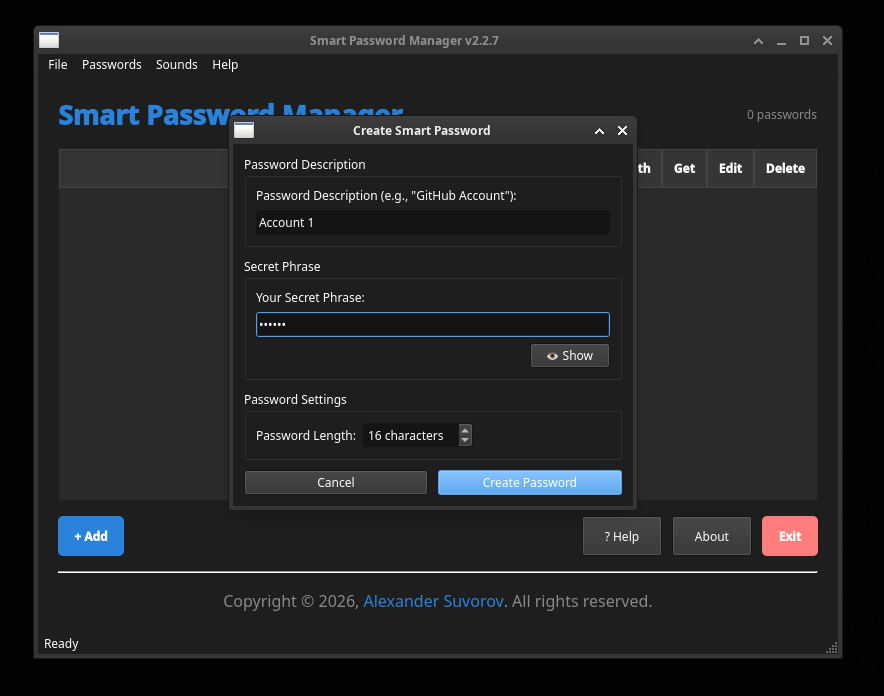
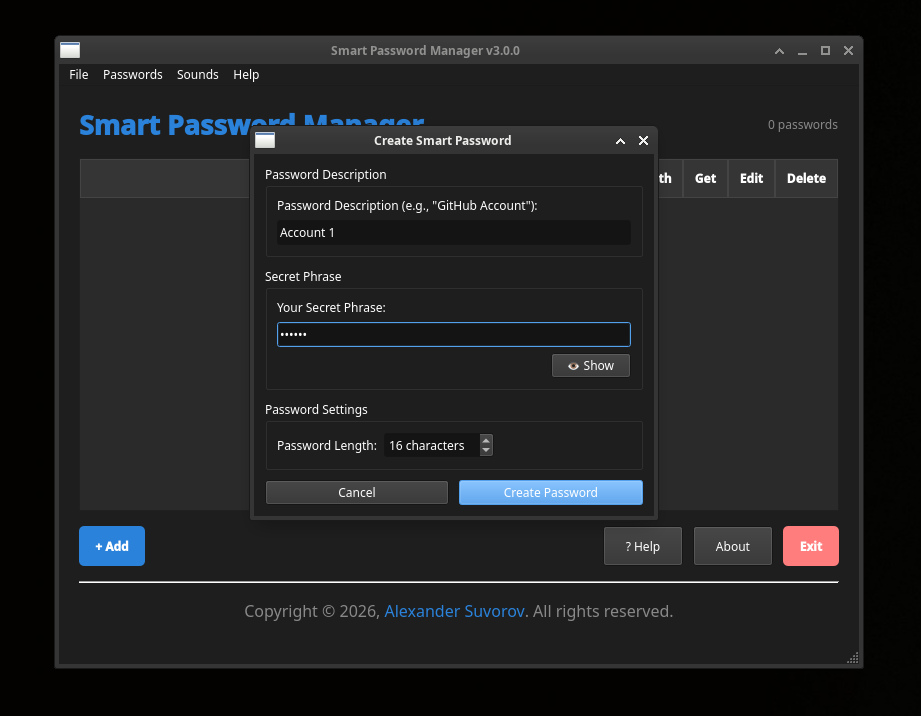
Smart Password Manager (Desktop) v3.0.0
docs: update README for v3.0.0

- Bump version from v2.3.3 to v3.0.0
- Update smartpasslib dependency from 2.2.0 to 3.0.0
- Add breaking change notice for v2.x.x incompatibility
- Add migration section for upgrading from old versions
- Add version history table
- Update Windows build instructions with correct smartpasslib version"

diff --git a/core/utils/config.py b/core/utils/config.py
@@ -59,6 +59,7 @@ class Config:
             <p><b>Links:</b></p>
             <p>
             📂 <a href="{url}" style="color: #2a82da;">GitHub Repository</a><br>
+            📂 <a href="{url}/blob/master/DISCLAIMER.md" style="color: #2a82da;">DISCLAIMER</a><br>
             🐛 <a href="{url}/issues" style="color: #2a82da;">Report Issues</a>
             </p>
             """

diff --git a/core/__init__.py b/core/__init__.py
@@ -1,5 +1,5 @@
 # Copyright (©) 2026, Alexander Suvorov. All rights reserved.
 """Cross-platform desktop manager for deterministic smart passwords. Generate, manage, and
 retrieve passwords without storing them. Your secret phrase is the only key you need."""
-__version__ = '2.3.3'
+__version__ = '3.0.0'
 __author__ = 'Alexander Suvorov'

diff --git a/core/main_window.py b/core/main_window.py
@@ -26,6 +26,7 @@ from core.dialogs.secret_input_dialog import SecretInputDialog
 from core.utils.config import Config
 from core.utils.sound_manager import SoundManager
 
+
 class MainWindow(QMainWindow):
     def __init__(self, parent=None):
         super().__init__(parent)

diff --git a/README.md b/README.md
@@ -1,4 +1,4 @@
-# Smart Password Manager Desktop <sup>v2.3.3</sup>
+# Smart Password Manager Desktop <sup>v3.0.0</sup>
 
 ---
 
@@ -73,11 +73,22 @@
 
 ## Technical Foundation
 
-Powered by **[smartpasslib v2.2.0+](https://github.com/smartlegionlab/smartpasslib)** - The core library for deterministic password generation.
+Powered by **smartpasslib v3.0.0+** — The core library for deterministic password generation.
 
-**Key principle**: Instead of storing passwords, you store verification metadata. The actual password is regenerated on-demand from your secret phrase.
+> ⚠ **BREAKING CHANGE NOTICE**  
+> **smartpasslib v3.0.0 is NOT backward compatible with v2.x.x**  
+> Passwords generated with v2.x.x cannot be regenerated using v3.0.0 due to fundamental changes in the deterministic generation algorithm.
 
-**What's NOT stored**:
+**What this means for you:**
+- All passwords created with **v2.3.3 or earlier** must be **regenerated** after upgrading
+- Old metadata (`passwords.json`) remains readable but will produce **different passwords** if used with v3.0.0
+- You have two options:
+  1. **Before upgrading** — manually retrieve and save all passwords from old version
+  2. **After upgrading** — re-enter your secret phrases and recreate each entry with correct passwords
+
+**Key principle** (unchanged): Instead of storing passwords, you store verification metadata. The actual password is regenerated on-demand from your secret phrase.
+
+**What's NOT stored** (unchanged):
 - Your secret phrase
 - The actual password
 - Any reversible password data
@@ -87,7 +98,7 @@ Powered by **[smartpasslib v2.2.0+](https://github.com/smartlegionlab/smartpassl
 - Service description
 - Password length parameter
 
-**Export format**: Same JSON structure, can be backed up and restored across different machines running the same software version.
+**Export format**: Same JSON structure, but v3.0.0 exports are **incompatible** with older versions. Always note which version created the export.
 
 **Security model**: Proof of secret knowledge without secret storage or password transmission.
 
@@ -179,6 +190,45 @@ python app.py
 2. Select previously exported JSON file
 3. Review import summary
 4. Click **OK** to refresh the view
+
+---
+
+## Migration Section
+
+### Migrating from v2.x.x to v3.0.0
+
+**⚠ Before upgrading — follow these steps carefully**
+
+**Step 1: Document your existing passwords**
+- Open your current Smart Password Manager (v2.3.3 or earlier)
+- For each service, click **Get** and copy the generated password
+- Save passwords in a secure temporary location (e.g., encrypted note)
+
+**Alternative method (more secure but manual):**
+- Write down for each service: **Service description + Secret phrase + Length**
+- After upgrading, you'll manually recreate entries and update passwords in services
+
+**Step 2: Export old metadata (optional backup)**
+- **File → Export → Export passwords...**
+- Save the JSON file as `passwords_v2_backup.json`
+
+**Step 3: Upgrade to v3.0.0**
+```bash
+# Update smartpasslib
+pip install smartpasslib==3.0.0
+
+# Or rebuild executable with new version
+```
+
+**Step 4: Migrate your data**
+- Option A: Start fresh — delete old `passwords.json` and add entries manually
+- Option B: Keep metadata but manually verify each password (not recommended — easy to make mistakes)
+
+**Step 5: Update passwords in all your services**
+- After regenerating passwords with v3.0.0, update them in each website/service
+- Test login before removing old access
+
+**Important**: v2.x.x and v3.0.0 cannot share the same metadata file. Keep them completely separate.
 
 ---
 
@@ -313,7 +363,7 @@ python -m venv venv
 # Install PyInstaller in virtual environment
 pip install pyinstaller
 pip install PyQt5==5.15.9
-pip install smartpasslib==2.2.0
+pip install smartpasslib==3.0.0
 ```
 
 #### Step 6: Build Executable
@@ -368,7 +418,7 @@ Length Strategy:
 **Best Practices:**
 1. **Unique per service** - Different secret for each account type
 2. **Memorable but complex** - Phrases you can remember
-3. **Case-sensitive** - v2.3.3 enforces exact case matching
+3. **Case-sensitive** - v3.0.0 enforces exact case matching
 4. **No digital storage** - Keep only in memory
 5. **Backup plan** - Physical written backup in secure location
 6. **Export regularly** - Backup metadata after adding new passwords
@@ -426,6 +476,15 @@ Length Strategy:
 
 ---
 
+## Version History
+
+| Version | smartpasslib | Status | Migration Required |
+|---------|--------------|--------|---------------------|
+| v2.3.3 and below | v2.x.x | ❌ Deprecated/Unsupported | Must migrate to v3.0.0 |
+| v3.0.0+ | v3.0.0 | ✅ Current | N/A |
+
+---
+
 ## License
 
 **[BSD 3-Clause License](LICENSE)**
@@ -476,3 +535,6 @@ Copyright (©) 2026, Alexander Suvorov
 ![Main Interface 3](https://github.com/smartlegionlab/smart-password-manager-desktop/raw/master/data/images/smartpassman3.png)
 
 ![Main Interface 4](https://github.com/smartlegionlab/smart-password-manager-desktop/raw/master/data/images/smartpassman4.png)
+
+---
+
